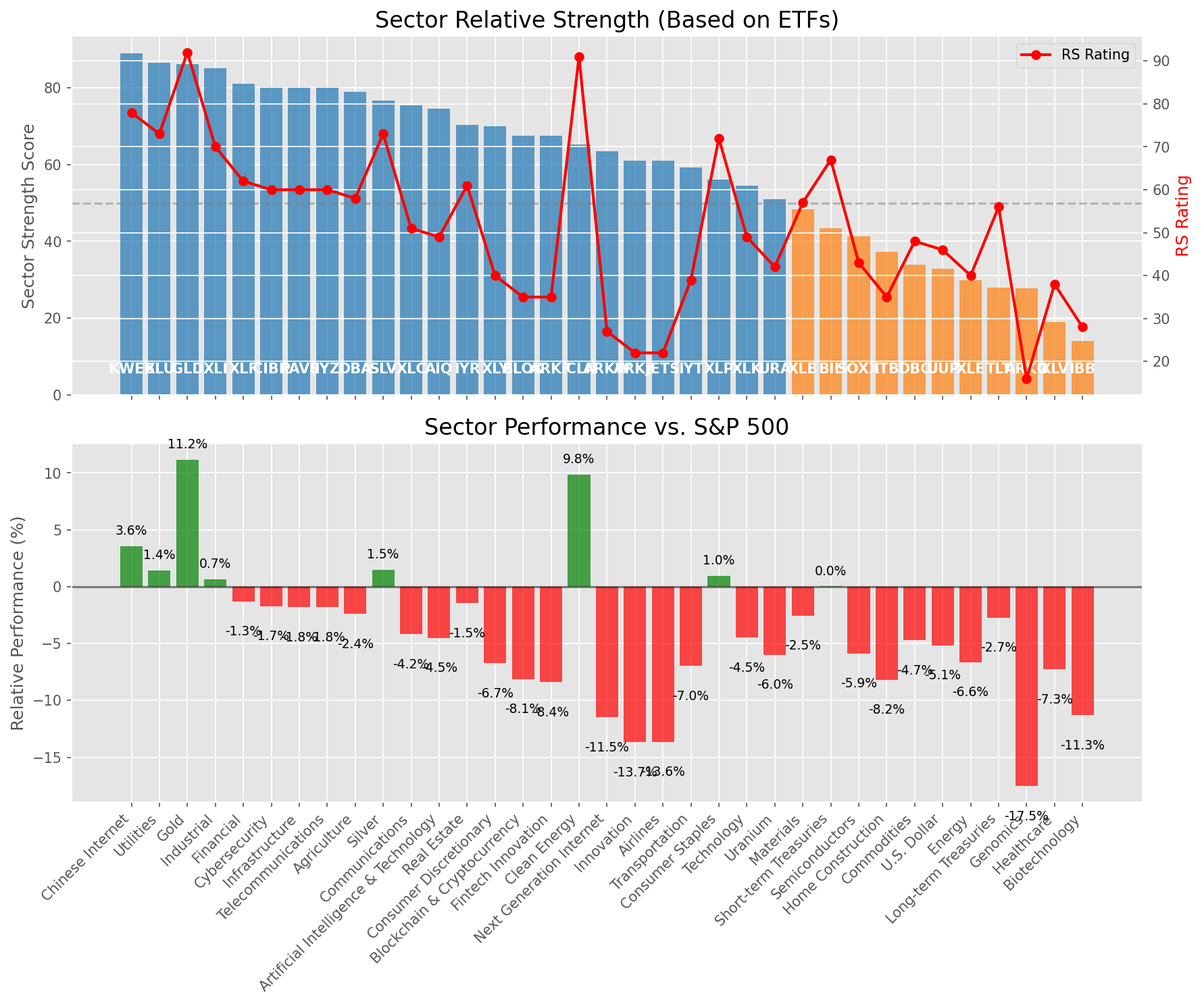
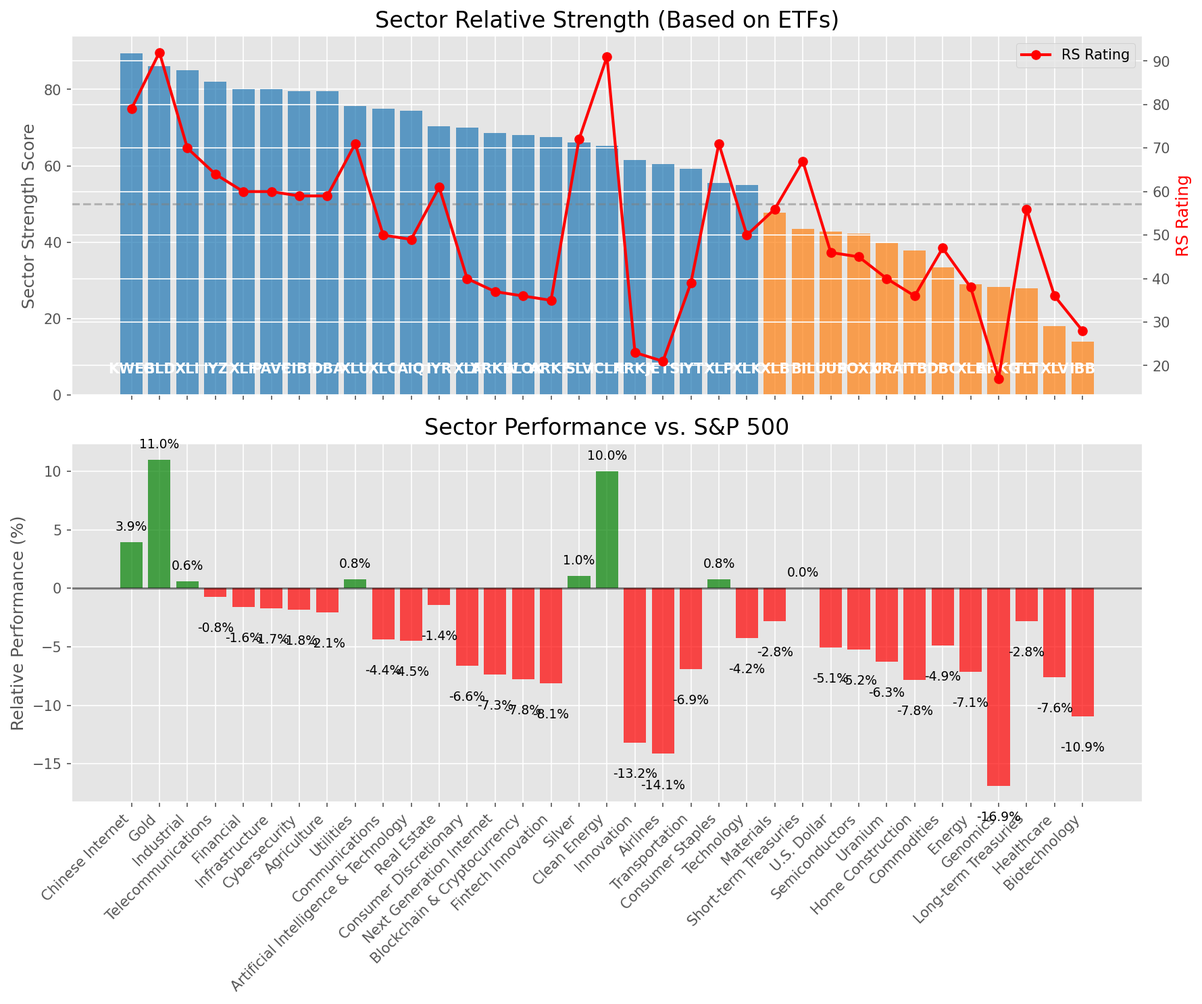
Add market report for 2025-05-12

diff --git a/oneil_relative_strength_report_2025-05-12.md b/oneil_relative_strength_report_2025-05-12.md
@@ -13,7 +13,7 @@
 | **Historical Mean** | 9.41 |
 | **Standard Deviation** | 0.51 |
 | **Z-Score (StdDev from Mean)** | -0.27 |
-| **Total Market Cap** | $285.36 trillion |
+| **Total Market Cap** | $285.49 trillion |
 | **GDP** | $29.98 trillion |
 
 ## **Market Insights**
@@ -49,41 +49,41 @@ Based on William O'Neil's Relative Strength Methodology
 
 | ETF | Strength | RS Rating | Performance | Above Key MAs | Trend | Sector |
 |-----|----------|-----------|-------------|--------------|-------|--------|
-| [KWEB](https://www.tradingview.com/chart/?symbol=KWEB) | 89.0 | 78.0 | 3.59% | 10d ✓, 50d ✓, 200d ✓ | ↗ | Chinese Internet |
-| [XLU](https://www.tradingview.com/chart/?symbol=XLU) | 86.5 | 73.0 | 1.41% | 10d ✓, 50d ✓, 200d ✓ | ↗ | Utilities |
-| [GLD](https://www.tradingview.com/chart/?symbol=GLD) | 86.1 | 92.0 | 11.17% | 10d ✗, 50d ✓, 200d ✓ | ↗ | Gold |
-| [XLI](https://www.tradingview.com/chart/?symbol=XLI) | 85.0 | 70.0 | 0.66% | 10d ✓, 50d ✓, 200d ✓ | ↗ | Industrial |
-| [XLF](https://www.tradingview.com/chart/?symbol=XLF) | 81.0 | 62.0 | -1.29% | 10d ✓, 50d ✓, 200d ✓ | ↗ | Financial |
-| [CIBR](https://www.tradingview.com/chart/?symbol=CIBR) | 80.0 | 60.0 | -1.70% | 10d ✓, 50d ✓, 200d ✓ | ↗ | Cybersecurity |
-| [PAVE](https://www.tradingview.com/chart/?symbol=PAVE) | 80.0 | 60.0 | -1.78% | 10d ✓, 50d ✓, 200d ✓ | ↗ | Infrastructure |
-| [IYZ](https://www.tradingview.com/chart/?symbol=IYZ) | 80.0 | 60.0 | -1.79% | 10d ✓, 50d ✓, 200d ✓ | ↗ | Telecommunications |
-| [DBA](https://www.tradingview.com/chart/?symbol=DBA) | 79.0 | 58.0 | -2.38% | 10d ✓, 50d ✓, 200d ✓ | ↗ | Agriculture |
-| [SLV](https://www.tradingview.com/chart/?symbol=SLV) | 76.6 | 73.0 | 1.47% | 10d ✓, 50d ✗, 200d ✓ | ↗ | Silver |
-| [XLC](https://www.tradingview.com/chart/?symbol=XLC) | 75.5 | 51.0 | -4.16% | 10d ✓, 50d ✓, 200d ✓ | ↗ | Communications |
-| [AIQ](https://www.tradingview.com/chart/?symbol=AIQ) | 74.5 | 49.0 | -4.51% | 10d ✓, 50d ✓, 200d ✓ | ↗ | Artificial Intelligence & Technology |
-| [IYR](https://www.tradingview.com/chart/?symbol=IYR) | 70.3 | 61.0 | -1.46% | 10d ✓, 50d ✓, 200d ✗ | ↗ | Real Estate |
-| [XLY](https://www.tradingview.com/chart/?symbol=XLY) | 70.0 | 40.0 | -6.72% | 10d ✓, 50d ✓, 200d ✓ | ↗ | Consumer Discretionary |
-| [BLOK](https://www.tradingview.com/chart/?symbol=BLOK) | 67.5 | 35.0 | -8.11% | 10d ✓, 50d ✓, 200d ✓ | ↗ | Blockchain & Cryptocurrency |
-| [ARKF](https://www.tradingview.com/chart/?symbol=ARKF) | 67.5 | 35.0 | -8.40% | 10d ✓, 50d ✓, 200d ✓ | ↗ | Fintech Innovation |
-| [ICLN](https://www.tradingview.com/chart/?symbol=ICLN) | 65.3 | 91.0 | 9.84% | 10d ✓, 50d ✓, 200d ✗ | ↘ | Clean Energy |
-| [ARKW](https://www.tradingview.com/chart/?symbol=ARKW) | 63.5 | 27.0 | -11.46% | 10d ✓, 50d ✓, 200d ✓ | ↗ | Next Generation Internet |
-| [ARKK](https://www.tradingview.com/chart/?symbol=ARKK) | 61.0 | 22.0 | -13.66% | 10d ✓, 50d ✓, 200d ✓ | ↗ | Innovation |
-| [JETS](https://www.tradingview.com/chart/?symbol=JETS) | 61.0 | 22.0 | -13.64% | 10d ✓, 50d ✓, 200d ✓ | ↗ | Airlines |
-| [IYT](https://www.tradingview.com/chart/?symbol=IYT) | 59.3 | 39.0 | -6.97% | 10d ✓, 50d ✓, 200d ✗ | ↗ | Transportation |
-| [XLP](https://www.tradingview.com/chart/?symbol=XLP) | 56.0 | 72.0 | 0.97% | 10d ✗, 50d ✗, 200d ✗ | ↗ | Consumer Staples |
-| [XLK](https://www.tradingview.com/chart/?symbol=XLK) | 54.5 | 49.0 | -4.47% | 10d ✓, 50d ✓, 200d ✓ | ↘ | Technology |
-| [URA](https://www.tradingview.com/chart/?symbol=URA) | 51.0 | 42.0 | -5.98% | 10d ✓, 50d ✓, 200d ✓ | ↘ | Uranium |
-| [XLB](https://www.tradingview.com/chart/?symbol=XLB) | 48.3 | 57.0 | -2.54% | 10d ✓, 50d ✓, 200d ✗ | ↘ | Materials |
+| [KWEB](https://www.tradingview.com/chart/?symbol=KWEB) | 89.5 | 79.0 | 3.93% | 10d ✓, 50d ✓, 200d ✓ | ↗ | Chinese Internet |
+| [GLD](https://www.tradingview.com/chart/?symbol=GLD) | 86.1 | 92.0 | 10.99% | 10d ✗, 50d ✓, 200d ✓ | ↗ | Gold |
+| [XLI](https://www.tradingview.com/chart/?symbol=XLI) | 85.0 | 70.0 | 0.58% | 10d ✓, 50d ✓, 200d ✓ | ↗ | Industrial |
+| [IYZ](https://www.tradingview.com/chart/?symbol=IYZ) | 82.0 | 64.0 | -0.75% | 10d ✓, 50d ✓, 200d ✓ | ↗ | Telecommunications |
+| [XLF](https://www.tradingview.com/chart/?symbol=XLF) | 80.0 | 60.0 | -1.58% | 10d ✓, 50d ✓, 200d ✓ | ↗ | Financial |
+| [PAVE](https://www.tradingview.com/chart/?symbol=PAVE) | 80.0 | 60.0 | -1.73% | 10d ✓, 50d ✓, 200d ✓ | ↗ | Infrastructure |
+| [CIBR](https://www.tradingview.com/chart/?symbol=CIBR) | 79.5 | 59.0 | -1.81% | 10d ✓, 50d ✓, 200d ✓ | ↗ | Cybersecurity |
+| [DBA](https://www.tradingview.com/chart/?symbol=DBA) | 79.5 | 59.0 | -2.07% | 10d ✓, 50d ✓, 200d ✓ | ↗ | Agriculture |
+| [XLU](https://www.tradingview.com/chart/?symbol=XLU) | 75.6 | 71.0 | 0.78% | 10d ✗, 50d ✓, 200d ✓ | ↗ | Utilities |
+| [XLC](https://www.tradingview.com/chart/?symbol=XLC) | 75.0 | 50.0 | -4.35% | 10d ✓, 50d ✓, 200d ✓ | ↗ | Communications |
+| [AIQ](https://www.tradingview.com/chart/?symbol=AIQ) | 74.5 | 49.0 | -4.45% | 10d ✓, 50d ✓, 200d ✓ | ↗ | Artificial Intelligence & Technology |
+| [IYR](https://www.tradingview.com/chart/?symbol=IYR) | 70.3 | 61.0 | -1.43% | 10d ✓, 50d ✓, 200d ✗ | ↗ | Real Estate |
+| [XLY](https://www.tradingview.com/chart/?symbol=XLY) | 70.0 | 40.0 | -6.60% | 10d ✓, 50d ✓, 200d ✓ | ↗ | Consumer Discretionary |
+| [ARKW](https://www.tradingview.com/chart/?symbol=ARKW) | 68.5 | 37.0 | -7.34% | 10d ✓, 50d ✓, 200d ✓ | ↗ | Next Generation Internet |
+| [BLOK](https://www.tradingview.com/chart/?symbol=BLOK) | 68.0 | 36.0 | -7.76% | 10d ✓, 50d ✓, 200d ✓ | ↗ | Blockchain & Cryptocurrency |
+| [ARKF](https://www.tradingview.com/chart/?symbol=ARKF) | 67.5 | 35.0 | -8.12% | 10d ✓, 50d ✓, 200d ✓ | ↗ | Fintech Innovation |
+| [SLV](https://www.tradingview.com/chart/?symbol=SLV) | 66.2 | 72.0 | 1.04% | 10d ✗, 50d ✗, 200d ✓ | ↗ | Silver |
+| [ICLN](https://www.tradingview.com/chart/?symbol=ICLN) | 65.3 | 91.0 | 9.97% | 10d ✓, 50d ✓, 200d ✗ | ↘ | Clean Energy |
+| [ARKK](https://www.tradingview.com/chart/?symbol=ARKK) | 61.5 | 23.0 | -13.21% | 10d ✓, 50d ✓, 200d ✓ | ↗ | Innovation |
+| [JETS](https://www.tradingview.com/chart/?symbol=JETS) | 60.5 | 21.0 | -14.14% | 10d ✓, 50d ✓, 200d ✓ | ↗ | Airlines |
+| [IYT](https://www.tradingview.com/chart/?symbol=IYT) | 59.3 | 39.0 | -6.89% | 10d ✓, 50d ✓, 200d ✗ | ↗ | Transportation |
+| [XLP](https://www.tradingview.com/chart/?symbol=XLP) | 55.5 | 71.0 | 0.78% | 10d ✗, 50d ✗, 200d ✗ | ↗ | Consumer Staples |
+| [XLK](https://www.tradingview.com/chart/?symbol=XLK) | 55.0 | 50.0 | -4.24% | 10d ✓, 50d ✓, 200d ✓ | ↘ | Technology |
+| [XLB](https://www.tradingview.com/chart/?symbol=XLB) | 47.8 | 56.0 | -2.79% | 10d ✓, 50d ✓, 200d ✗ | ↘ | Materials |
 | [BIL](https://www.tradingview.com/chart/?symbol=BIL) | 43.4 | 67.0 | 0.03% | 10d ✓, 50d ✗, 200d ✗ | ↘ | Short-term Treasuries |
-| [SOXX](https://www.tradingview.com/chart/?symbol=SOXX) | 41.3 | 43.0 | -5.88% | 10d ✓, 50d ✓, 200d ✗ | ↘ | Semiconductors |
-| [ITB](https://www.tradingview.com/chart/?symbol=ITB) | 37.3 | 35.0 | -8.17% | 10d ✓, 50d ✓, 200d ✗ | ↘ | Home Construction |
-| [DBC](https://www.tradingview.com/chart/?symbol=DBC) | 33.9 | 48.0 | -4.71% | 10d ✓, 50d ✗, 200d ✗ | ↘ | Commodities |
-| [UUP](https://www.tradingview.com/chart/?symbol=UUP) | 32.9 | 46.0 | -5.15% | 10d ✓, 50d ✗, 200d ✗ | ↘ | U.S. Dollar |
-| [XLE](https://www.tradingview.com/chart/?symbol=XLE) | 29.9 | 40.0 | -6.63% | 10d ✓, 50d ✗, 200d ✗ | ↘ | Energy |
-| [TLT](https://www.tradingview.com/chart/?symbol=TLT) | 28.0 | 56.0 | -2.72% | 10d ✗, 50d ✗, 200d ✗ | ↘ | Long-term Treasuries |
-| [ARKG](https://www.tradingview.com/chart/?symbol=ARKG) | 27.8 | 16.0 | -17.52% | 10d ✓, 50d ✓, 200d ✗ | ↘ | Genomics |
-| [XLV](https://www.tradingview.com/chart/?symbol=XLV) | 19.0 | 38.0 | -7.27% | 10d ✗, 50d ✗, 200d ✗ | ↘ | Healthcare |
-| [IBB](https://www.tradingview.com/chart/?symbol=IBB) | 14.0 | 28.0 | -11.29% | 10d ✗, 50d ✗, 200d ✗ | ↘ | Biotechnology |
+| [UUP](https://www.tradingview.com/chart/?symbol=UUP) | 42.8 | 46.0 | -5.06% | 10d ✓, 50d ✓, 200d ✗ | ↘ | U.S. Dollar |
+| [SOXX](https://www.tradingview.com/chart/?symbol=SOXX) | 42.3 | 45.0 | -5.23% | 10d ✓, 50d ✓, 200d ✗ | ↘ | Semiconductors |
+| [URA](https://www.tradingview.com/chart/?symbol=URA) | 39.8 | 40.0 | -6.29% | 10d ✓, 50d ✓, 200d ✗ | ↘ | Uranium |
+| [ITB](https://www.tradingview.com/chart/?symbol=ITB) | 37.8 | 36.0 | -7.82% | 10d ✓, 50d ✓, 200d ✗ | ↘ | Home Construction |
+| [DBC](https://www.tradingview.com/chart/?symbol=DBC) | 33.4 | 47.0 | -4.89% | 10d ✓, 50d ✗, 200d ✗ | ↘ | Commodities |
+| [XLE](https://www.tradingview.com/chart/?symbol=XLE) | 28.9 | 38.0 | -7.13% | 10d ✓, 50d ✗, 200d ✗ | ↘ | Energy |
+| [ARKG](https://www.tradingview.com/chart/?symbol=ARKG) | 28.3 | 17.0 | -16.88% | 10d ✓, 50d ✓, 200d ✗ | ↘ | Genomics |
+| [TLT](https://www.tradingview.com/chart/?symbol=TLT) | 28.0 | 56.0 | -2.83% | 10d ✗, 50d ✗, 200d ✗ | ↘ | Long-term Treasuries |
+| [XLV](https://www.tradingview.com/chart/?symbol=XLV) | 18.0 | 36.0 | -7.58% | 10d ✗, 50d ✗, 200d ✗ | ↘ | Healthcare |
+| [IBB](https://www.tradingview.com/chart/?symbol=IBB) | 14.0 | 28.0 | -10.91% | 10d ✗, 50d ✗, 200d ✗ | ↘ | Biotechnology |
 
 ### **Sector ETF Performance Interpretation**
 
@@ -98,9 +98,9 @@ This table shows the relative strength metrics for different market sectors base
 
 ### **Current Sector Leadership**
 
-The current market leadership is coming from the following sectors: **Chinese Internet, Utilities, Gold**.
+The current market leadership is coming from the following sectors: **Chinese Internet, Gold, Industrial**.
 
-The **Chinese Internet** sector (represented by **KWEB**) is showing particularly strong relative strength with an RS rating of 78.0 and performance of 3.59% vs. the S&P 500. This sector is trading above its 10-day, 50-day, 200-day moving average(s). Investors should consider focusing on high RS stocks within these leading sectors for potential outperformance.
+The **Chinese Internet** sector (represented by **KWEB**) is showing particularly strong relative strength with an RS rating of 79.0 and performance of 3.93% vs. the S&P 500. This sector is trading above its 10-day, 50-day, 200-day moving average(s). Investors should consider focusing on high RS stocks within these leading sectors for potential outperformance.
 
 ---
 
@@ -110,148 +110,146 @@ The following 50 stocks show exceptional relative strength:
 
 | RS Rating | Buy Score | Current Price | Chart | Name | Ticker |
 |-----------|-----------|---------------|-------|------|--------|
-| 100 | 100 | $19.27 | [Chart](https://www.tradingview.com/chart/?symbol=SPNT) | SiriusPoint Ltd. | SPNT |
-| 100 | 100 | $153.00 | [Chart](https://www.tradingview.com/chart/?symbol=ROOT) | Root, Inc. Class A Common Stock | ROOT |
-| 100 | 100 | $27.41 | [Chart](https://www.tradingview.com/chart/?symbol=DB) | Deutsche Bank Aktiengesellschaft | DB |
-| 100 | 100 | $88.08 | [Chart](https://www.tradingview.com/chart/?symbol=SEZL) | Sezzle Inc. Common Stock | SEZL |
-| 100 | 100 | $174.50 | [Chart](https://www.tradingview.com/chart/?symbol=DAVE) | Dave Inc. Class A Common Stock | DAVE |
-| 100 | 100 | $153.68 | [Chart](https://www.tradingview.com/chart/?symbol=PLMR) | Palomar Holdings, Inc. Common stock | PLMR |
-| 99 | 100 | $47.30 | [Chart](https://www.tradingview.com/chart/?symbol=MRX) | Marex Group plc Ordinary Shares | MRX |
-| 99 | 100 | $70.01 | [Chart](https://www.tradingview.com/chart/?symbol=ULS) | UL Solutions Inc. | ULS |
-| 99 | 100 | $23.63 | [Chart](https://www.tradingview.com/chart/?symbol=GRND) | Grindr Inc. | GRND |
-| 98 | 100 | $408.57 | [Chart](https://www.tradingview.com/chart/?symbol=MSTR) | MicroStrategy Inc | MSTR |
-| 98 | 100 | $132.59 | [Chart](https://www.tradingview.com/chart/?symbol=ATGE) | Adtalem Global Education Inc. Common Shares | ATGE |
+| 100 | 100 | $27.38 | [Chart](https://www.tradingview.com/chart/?symbol=DB) | Deutsche Bank Aktiengesellschaft | DB |
+| 100 | 100 | $19.08 | [Chart](https://www.tradingview.com/chart/?symbol=SPNT) | SiriusPoint Ltd. | SPNT |
+| 100 | 100 | $86.76 | [Chart](https://www.tradingview.com/chart/?symbol=SEZL) | Sezzle Inc. Common Stock | SEZL |
+| 100 | 100 | $175.11 | [Chart](https://www.tradingview.com/chart/?symbol=DAVE) | Dave Inc. Class A Common Stock | DAVE |
+| 100 | 100 | $23.60 | [Chart](https://www.tradingview.com/chart/?symbol=GRND) | Grindr Inc. | GRND |
+| 99 | 100 | $148.50 | [Chart](https://www.tradingview.com/chart/?symbol=ROOT) | Root, Inc. Class A Common Stock | ROOT |
+| 99 | 100 | $69.55 | [Chart](https://www.tradingview.com/chart/?symbol=ULS) | UL Solutions Inc. | ULS |
+| 99 | 100 | $46.97 | [Chart](https://www.tradingview.com/chart/?symbol=MRX) | Marex Group plc Ordinary Shares | MRX |
+| 98 | 100 | $156.92 | [Chart](https://www.tradingview.com/chart/?symbol=HWM) | Howmet Aerospace Inc. | HWM |
 | 98 | 100 | $129.14 | [Chart](https://www.tradingview.com/chart/?symbol=VSEC) | VSE Corp | VSEC |
-| 98 | 100 | $34.69 | [Chart](https://www.tradingview.com/chart/?symbol=AHR) | American Healthcare REIT, Inc. | AHR |
-| 97 | 100 | $28.39 | [Chart](https://www.tradingview.com/chart/?symbol=FMS) | Fresenius Medical Care AG | FMS |
-| 97 | 100 | $116.66 | [Chart](https://www.tradingview.com/chart/?symbol=EHC) | Encompass Health Corporation Common Stock | EHC |
-| 97 | 100 | $148.07 | [Chart](https://www.tradingview.com/chart/?symbol=CAH) | Cardinal Health, Inc. | CAH |
-| 97 | 100 | $38.28 | [Chart](https://www.tradingview.com/chart/?symbol=PAY) | Paymentus Holdings, Inc. | PAY |
-| 97 | 100 | $30.70 | [Chart](https://www.tradingview.com/chart/?symbol=EUFN) | iShares MSCI Europe Financials ETF | EUFN |
-| 96 | 100 | $40.32 | [Chart](https://www.tradingview.com/chart/?symbol=EWG) | iShares MSCI Germany ETF | EWG |
-| 96 | 100 | $298.25 | [Chart](https://www.tradingview.com/chart/?symbol=PEN) | Penumbra, Inc. | PEN |
-| 96 | 100 | $33.47 | [Chart](https://www.tradingview.com/chart/?symbol=UTI) | Universal Technical Institute, Inc. | UTI |
-| 95 | 100 | $214.94 | [Chart](https://www.tradingview.com/chart/?symbol=CRS) | Carpenter Technology Corp | CRS |
-| 95 | 100 | $32.91 | [Chart](https://www.tradingview.com/chart/?symbol=SLM) | SLM Corporation | SLM |
+| 98 | 100 | $408.12 | [Chart](https://www.tradingview.com/chart/?symbol=MSTR) | MicroStrategy Inc | MSTR |
+| 98 | 100 | $132.44 | [Chart](https://www.tradingview.com/chart/?symbol=ATGE) | Adtalem Global Education Inc. Common Shares | ATGE |
+| 98 | 100 | $34.60 | [Chart](https://www.tradingview.com/chart/?symbol=AHR) | American Healthcare REIT, Inc. | AHR |
+| 97 | 100 | $28.13 | [Chart](https://www.tradingview.com/chart/?symbol=FMS) | Fresenius Medical Care AG | FMS |
+| 97 | 100 | $147.91 | [Chart](https://www.tradingview.com/chart/?symbol=CAH) | Cardinal Health, Inc. | CAH |
+| 97 | 100 | $37.70 | [Chart](https://www.tradingview.com/chart/?symbol=PAY) | Paymentus Holdings, Inc. | PAY |
+| 97 | 100 | $30.66 | [Chart](https://www.tradingview.com/chart/?symbol=EUFN) | iShares MSCI Europe Financials ETF | EUFN |
+| 96 | 100 | $33.41 | [Chart](https://www.tradingview.com/chart/?symbol=UTI) | Universal Technical Institute, Inc. | UTI |
+| 96 | 100 | $298.12 | [Chart](https://www.tradingview.com/chart/?symbol=PEN) | Penumbra, Inc. | PEN |
+| 96 | 100 | $40.26 | [Chart](https://www.tradingview.com/chart/?symbol=EWG) | iShares MSCI Germany ETF | EWG |
+| 95 | 100 | $32.88 | [Chart](https://www.tradingview.com/chart/?symbol=SLM) | SLM Corporation | SLM |
+| 95 | 100 | $216.00 | [Chart](https://www.tradingview.com/chart/?symbol=CRS) | Carpenter Technology Corp | CRS |
+| 95 | 100 | $73.75 | [Chart](https://www.tradingview.com/chart/?symbol=RBLX) | Roblox Corporation | RBLX |
 | 95 | 100 | $61.81 | [Chart](https://www.tradingview.com/chart/?symbol=CHEF) | The Chef's Warehouse Inc | CHEF |
-| 94 | 100 | $141.30 | [Chart](https://www.tradingview.com/chart/?symbol=SE) | Sea Limited American Depositary Shares, each representing one Class A Ordinary Share | SE |
-| 94 | 100 | $47.35 | [Chart](https://www.tradingview.com/chart/?symbol=ERJ) | Embraer S.A. | ERJ |
-| 94 | 100 | $80.97 | [Chart](https://www.tradingview.com/chart/?symbol=NFG) | National Fuel Gas Co. | NFG |
-| 94 | 100 | $105.00 | [Chart](https://www.tradingview.com/chart/?symbol=RBA) | RB Global, Inc. | RBA |
-| 94 | 100 | $73.29 | [Chart](https://www.tradingview.com/chart/?symbol=RBLX) | Roblox Corporation | RBLX |
-| 93 | 100 | $53.21 | [Chart](https://www.tradingview.com/chart/?symbol=EPR) | EPR Properties | EPR |
-| 93 | 100 | $317.63 | [Chart](https://www.tradingview.com/chart/?symbol=PODD) | Insulet Corporation | PODD |
-| 93 | 100 | $16.71 | [Chart](https://www.tradingview.com/chart/?symbol=BCS) | Barclays PLC | BCS |
+| 95 | 100 | $47.53 | [Chart](https://www.tradingview.com/chart/?symbol=ERJ) | Embraer S.A. | ERJ |
+| 95 | 100 | $142.82 | [Chart](https://www.tradingview.com/chart/?symbol=SE) | Sea Limited American Depositary Shares, each representing one Class A Ordinary Share | SE |
+| 94 | 100 | $104.78 | [Chart](https://www.tradingview.com/chart/?symbol=RBA) | RB Global, Inc. | RBA |
+| 93 | 100 | $119.30 | [Chart](https://www.tradingview.com/chart/?symbol=COOP) | Mr. Cooper Group Inc. Common Stock | COOP |
+| 93 | 100 | $16.66 | [Chart](https://www.tradingview.com/chart/?symbol=BCS) | Barclays PLC | BCS |
+| 93 | 100 | $53.17 | [Chart](https://www.tradingview.com/chart/?symbol=EPR) | EPR Properties | EPR |
 | 92 | 100 | $40.76 | [Chart](https://www.tradingview.com/chart/?symbol=AB) | AllianceBernstein Holding, L.P. | AB |
-| 90 | 100 | $67.80 | [Chart](https://www.tradingview.com/chart/?symbol=CTVA) | Corteva, Inc. Common Stock | CTVA |
-| 89 | 100 | $58.58 | [Chart](https://www.tradingview.com/chart/?symbol=HSBC) | HSBC Holdings PLC | HSBC |
-| 89 | 100 | $101.22 | [Chart](https://www.tradingview.com/chart/?symbol=AXS) | Axis Capital Holders Limited | AXS |
+| 92 | 100 | $316.20 | [Chart](https://www.tradingview.com/chart/?symbol=PODD) | Insulet Corporation | PODD |
+| 92 | 100 | $86.46 | [Chart](https://www.tradingview.com/chart/?symbol=TGLS) | Tecnoglass Inc. | TGLS |
+| 89 | 100 | $94.33 | [Chart](https://www.tradingview.com/chart/?symbol=HEES) | H&E Equipment Services, Inc. | HEES |
 | 89 | 100 | $25.09 | [Chart](https://www.tradingview.com/chart/?symbol=EWS) | iShares MSCI Singapore ETF | EWS |
+| 89 | 100 | $58.33 | [Chart](https://www.tradingview.com/chart/?symbol=HSBC) | HSBC Holdings PLC | HSBC |
+| 89 | 100 | $67.61 | [Chart](https://www.tradingview.com/chart/?symbol=CTVA) | Corteva, Inc. Common Stock | CTVA |
 | 88 | 100 | $196.10 | [Chart](https://www.tradingview.com/chart/?symbol=LOPE) | Grand Canyon Education, Inc | LOPE |
-| 90 | 99 | $85.24 | [Chart](https://www.tradingview.com/chart/?symbol=TGLS) | Tecnoglass Inc. | TGLS |
-| 88 | 98 | $30.74 | [Chart](https://www.tradingview.com/chart/?symbol=PRDO) | Perdoceo Education Corporation | PRDO |
-| 88 | 98 | $13.26 | [Chart](https://www.tradingview.com/chart/?symbol=CNH) | CNH INDUSTRIAL N.V. | CNH |
-| 87 | 98 | $93.41 | [Chart](https://www.tradingview.com/chart/?symbol=HEES) | H&E Equipment Services, Inc. | HEES |
-| 84 | 97 | $45.84 | [Chart](https://www.tradingview.com/chart/?symbol=QFIN) | Qifu Technology, Inc. American Depositary Shares | QFIN |
+| 88 | 98 | $13.29 | [Chart](https://www.tradingview.com/chart/?symbol=CNH) | CNH INDUSTRIAL N.V. | CNH |
+| 87 | 97 | $30.60 | [Chart](https://www.tradingview.com/chart/?symbol=PRDO) | Perdoceo Education Corporation | PRDO |
+| 84 | 97 | $45.93 | [Chart](https://www.tradingview.com/chart/?symbol=QFIN) | Qifu Technology, Inc. American Depositary Shares | QFIN |
+| 84 | 97 | $219.22 | [Chart](https://www.tradingview.com/chart/?symbol=IDCC) | InterDigital, Inc. | IDCC |
 | 85 | 96 | $205.37 | [Chart](https://www.tradingview.com/chart/?symbol=BAP) | Credicorp LTD | BAP |
-| 84 | 95 | $29.61 | [Chart](https://www.tradingview.com/chart/?symbol=ATAT) | Atour Lifestyle Holdings Limited American Depositary Shares | ATAT |
-| 81 | 93 | $204.37 | [Chart](https://www.tradingview.com/chart/?symbol=DRI) | Darden Restaurants, Inc. | DRI |
-| 83 | 92 | $58.39 | [Chart](https://www.tradingview.com/chart/?symbol=IBIT) | iShares Bitcoin Trust ETF | IBIT |
-| 81 | 92 | $164.76 | [Chart](https://www.tradingview.com/chart/?symbol=ITA) | iShares U.S. Aerospace & Defense ETF | ITA |
-| 80 | 90 | $12.94 | [Chart](https://www.tradingview.com/chart/?symbol=MUFG) | Mitsubishi UFJ Financial Group, Inc. | MUFG |
-| 80 | 90 | $16.99 | [Chart](https://www.tradingview.com/chart/?symbol=MIR) | Mirion Technologies, Inc. | MIR |
+| 85 | 96 | $29.64 | [Chart](https://www.tradingview.com/chart/?symbol=ATAT) | Atour Lifestyle Holdings Limited American Depositary Shares | ATAT |
+| 81 | 93 | $204.28 | [Chart](https://www.tradingview.com/chart/?symbol=DRI) | Darden Restaurants, Inc. | DRI |
+| 80 | 93 | $66.25 | [Chart](https://www.tradingview.com/chart/?symbol=CSGS) | CSG Systems International | CSGS |
+| 83 | 92 | $29.09 | [Chart](https://www.tradingview.com/chart/?symbol=HODL) | VanEck Bitcoin ETF | HODL |
+| 83 | 92 | $58.45 | [Chart](https://www.tradingview.com/chart/?symbol=IBIT) | iShares Bitcoin Trust ETF | IBIT |
+| 81 | 92 | $164.48 | [Chart](https://www.tradingview.com/chart/?symbol=ITA) | iShares U.S. Aerospace & Defense ETF | ITA |
+| 80 | 90 | $17.00 | [Chart](https://www.tradingview.com/chart/?symbol=MIR) | Mirion Technologies, Inc. | MIR |
 
 ---
 
 
 ## **Sell Recommendations**
 
-The following 82 stocks show deteriorating relative strength:
+The following 80 stocks show deteriorating relative strength:
 
 | RS Rating | Sell Score | Current Price | Chart | Name | Ticker |
 |-----------|------------|---------------|-------|------|--------|
-| 1 | 100 | $10.00 | [Chart](https://www.tradingview.com/chart/?symbol=NRIX) | Nurix Therapeutics, Inc. Common stock | NRIX |
-| 1 | 100 | $20.39 | [Chart](https://www.tradingview.com/chart/?symbol=BHVN) | Biohaven Ltd. | BHVN |
-| 2 | 100 | $13.96 | [Chart](https://www.tradingview.com/chart/?symbol=DQ) | Daqo New Energy Corp. American Depositary Shares (each representing 5 Ordinary Shares) | DQ |
-| 3 | 100 | $10.29 | [Chart](https://www.tradingview.com/chart/?symbol=LSPD) | Lightspeed Commerce Inc. | LSPD |
-| 4 | 100 | $13.07 | [Chart](https://www.tradingview.com/chart/?symbol=MNRO) | Monro, Inc. Common Stock | MNRO |
-| 5 | 100 | $13.19 | [Chart](https://www.tradingview.com/chart/?symbol=FL) | Foot Locker, Inc. | FL |
-| 5 | 100 | $11.72 | [Chart](https://www.tradingview.com/chart/?symbol=ARCT) | Arcturus Therapeutics Holdings Inc. Common Stock | ARCT |
+| 1 | 100 | $10.06 | [Chart](https://www.tradingview.com/chart/?symbol=NRIX) | Nurix Therapeutics, Inc. Common stock | NRIX |
+| 1 | 100 | $20.04 | [Chart](https://www.tradingview.com/chart/?symbol=BHVN) | Biohaven Ltd. | BHVN |
+| 2 | 100 | $14.01 | [Chart](https://www.tradingview.com/chart/?symbol=DQ) | Daqo New Energy Corp. American Depositary Shares (each representing 5 Ordinary Shares) | DQ |
+| 3 | 100 | $10.35 | [Chart](https://www.tradingview.com/chart/?symbol=LSPD) | Lightspeed Commerce Inc. | LSPD |
+| 4 | 100 | $11.38 | [Chart](https://www.tradingview.com/chart/?symbol=ARCT) | Arcturus Therapeutics Holdings Inc. Common Stock | ARCT |
+| 4 | 100 | $12.99 | [Chart](https://www.tradingview.com/chart/?symbol=MNRO) | Monro, Inc. Common Stock | MNRO |
+| 5 | 100 | $13.20 | [Chart](https://www.tradingview.com/chart/?symbol=FL) | Foot Locker, Inc. | FL |
+| 6 | 100 | $28.20 | [Chart](https://www.tradingview.com/chart/?symbol=JACK) | Jack in the Box Inc. | JACK |
 | 6 | 100 | $28.01 | [Chart](https://www.tradingview.com/chart/?symbol=SRDX) | Surmodics, Inc. Common Stock | SRDX |
-| 7 | 100 | $15.87 | [Chart](https://www.tradingview.com/chart/?symbol=PENN) | PENN Entertainment, Inc. Common Stock | PENN |
-| 7 | 100 | $32.96 | [Chart](https://www.tradingview.com/chart/?symbol=AAP) | ADVANCE AUTO PARTS INC | AAP |
-| 7 | 100 | $11.65 | [Chart](https://www.tradingview.com/chart/?symbol=JAMF) | Jamf Holding Corp. Common Stock | JAMF |
-| 8 | 100 | $14.49 | [Chart](https://www.tradingview.com/chart/?symbol=IMVT) | Immunovant, Inc. Common Stock | IMVT |
-| 9 | 100 | $130.02 | [Chart](https://www.tradingview.com/chart/?symbol=TFX) | Teleflex Incorporated | TFX |
-| 9 | 100 | $32.10 | [Chart](https://www.tradingview.com/chart/?symbol=CYTK) | Cytokinetics Inc. | CYTK |
+| 7 | 100 | $15.95 | [Chart](https://www.tradingview.com/chart/?symbol=PENN) | PENN Entertainment, Inc. Common Stock | PENN |
+| 7 | 100 | $14.45 | [Chart](https://www.tradingview.com/chart/?symbol=IMVT) | Immunovant, Inc. Common Stock | IMVT |
+| 7 | 100 | $33.22 | [Chart](https://www.tradingview.com/chart/?symbol=AAP) | ADVANCE AUTO PARTS INC | AAP |
+| 7 | 100 | $11.62 | [Chart](https://www.tradingview.com/chart/?symbol=JAMF) | Jamf Holding Corp. Common Stock | JAMF |
+| 8 | 100 | $129.48 | [Chart](https://www.tradingview.com/chart/?symbol=TFX) | Teleflex Incorporated | TFX |
+| 9 | 100 | $32.23 | [Chart](https://www.tradingview.com/chart/?symbol=CYTK) | Cytokinetics Inc. | CYTK |
 | 11 | 100 | $58.62 | [Chart](https://www.tradingview.com/chart/?symbol=AMWD) | American Woodmark Corp | AMWD |
-| 11 | 100 | $33.35 | [Chart](https://www.tradingview.com/chart/?symbol=SMCI) | Super Micro Computer, Inc. Common Stock | SMCI |
-| 12 | 100 | $47.06 | [Chart](https://www.tradingview.com/chart/?symbol=RHI) | Robert Half Inc. | RHI |
-| 7 | 99 | $12.72 | [Chart](https://www.tradingview.com/chart/?symbol=LBRT) | Liberty Energy Inc. | LBRT |
+| 11 | 100 | $33.52 | [Chart](https://www.tradingview.com/chart/?symbol=SMCI) | Super Micro Computer, Inc. Common Stock | SMCI |
+| 12 | 100 | $47.27 | [Chart](https://www.tradingview.com/chart/?symbol=RHI) | Robert Half Inc. | RHI |
+| 9 | 99 | $12.05 | [Chart](https://www.tradingview.com/chart/?symbol=ZUMZ) | Zumiez Inc. | ZUMZ |
 | 10 | 99 | $11.34 | [Chart](https://www.tradingview.com/chart/?symbol=HPK) | HighPeak Energy, Inc. Common Stock | HPK |
 | 17 | 99 | $10.34 | [Chart](https://www.tradingview.com/chart/?symbol=CMRE) | Costamare Inc. | CMRE |
-| 2 | 98 | $287.20 | [Chart](https://www.tradingview.com/chart/?symbol=SAIA) | Saia, Inc. | SAIA |
-| 10 | 98 | $12.05 | [Chart](https://www.tradingview.com/chart/?symbol=ZUMZ) | Zumiez Inc. | ZUMZ |
-| 9 | 97 | $99.46 | [Chart](https://www.tradingview.com/chart/?symbol=TGT) | Target Corporation | TGT |
-| 10 | 97 | $29.35 | [Chart](https://www.tradingview.com/chart/?symbol=MBUU) | Malibu Boats, Inc. Class A | MBUU |
-| 19 | 97 | $28.80 | [Chart](https://www.tradingview.com/chart/?symbol=AGIO) | Agios Pharmaceuticals, Inc. | AGIO |
-| 21 | 97 | $11.03 | [Chart](https://www.tradingview.com/chart/?symbol=BWLP) | BW LPG Limited | BWLP |
-| 25 | 97 | $13.31 | [Chart](https://www.tradingview.com/chart/?symbol=MED) | Medifast, Inc. | MED |
+| 19 | 99 | $10.95 | [Chart](https://www.tradingview.com/chart/?symbol=BWLP) | BW LPG Limited | BWLP |
+| 2 | 98 | $292.13 | [Chart](https://www.tradingview.com/chart/?symbol=SAIA) | Saia, Inc. | SAIA |
+| 21 | 98 | $97.33 | [Chart](https://www.tradingview.com/chart/?symbol=CHRD) | Chord Energy Corporation Common Stock | CHRD |
+| 18 | 97 | $12.46 | [Chart](https://www.tradingview.com/chart/?symbol=AEYE) | AudioEye, Inc. Common Stock | AEYE |
+| 25 | 97 | $13.30 | [Chart](https://www.tradingview.com/chart/?symbol=MED) | Medifast, Inc. | MED |
+| 6 | 96 | $26.35 | [Chart](https://www.tradingview.com/chart/?symbol=TRN) | Trinity Industries, Inc. | TRN |
 | 6 | 96 | $10.31 | [Chart](https://www.tradingview.com/chart/?symbol=VREX) | Varex Imaging Corporation Common Stock | VREX |
 | 11 | 96 | $10.03 | [Chart](https://www.tradingview.com/chart/?symbol=MTAL) | MAC Copper Limited | MTAL |
-| 19 | 96 | $12.46 | [Chart](https://www.tradingview.com/chart/?symbol=AEYE) | AudioEye, Inc. Common Stock | AEYE |
-| 23 | 96 | $97.95 | [Chart](https://www.tradingview.com/chart/?symbol=CHRD) | Chord Energy Corporation Common Stock | CHRD |
-| 7 | 95 | $114.77 | [Chart](https://www.tradingview.com/chart/?symbol=BLDR) | Builders FirstSource, Inc. | BLDR |
-| 11 | 95 | $10.46 | [Chart](https://www.tradingview.com/chart/?symbol=PEB) | Pebblebrook Hotel Trust | PEB |
-| 13 | 95 | $17.76 | [Chart](https://www.tradingview.com/chart/?symbol=MLKN) | MillerKnoll, Inc. Common Stock | MLKN |
-| 11 | 93 | $54.67 | [Chart](https://www.tradingview.com/chart/?symbol=PRCT) | PROCEPT BioRobotics Corporation Common Stock | PRCT |
-| 12 | 92 | $31.47 | [Chart](https://www.tradingview.com/chart/?symbol=MBIN) | Merchants Bancorp Common Stock | MBIN |
-| 17 | 92 | $51.22 | [Chart](https://www.tradingview.com/chart/?symbol=ERX) | Direxion Daily Energy Bull 2X Shares | ERX |
-| 16 | 91 | $83.21 | [Chart](https://www.tradingview.com/chart/?symbol=WHR) | Whirlpool Corp. | WHR |
-| 22 | 91 | $16.41 | [Chart](https://www.tradingview.com/chart/?symbol=PD) | PagerDuty, Inc. | PD |
-| 12 | 90 | $12.12 | [Chart](https://www.tradingview.com/chart/?symbol=APLE) | Apple Hospitality REIT, Inc. | APLE |
+| 13 | 95 | $17.84 | [Chart](https://www.tradingview.com/chart/?symbol=MLKN) | MillerKnoll, Inc. Common Stock | MLKN |
+| 20 | 95 | $28.98 | [Chart](https://www.tradingview.com/chart/?symbol=AGIO) | Agios Pharmaceuticals, Inc. | AGIO |
+| 8 | 94 | $115.71 | [Chart](https://www.tradingview.com/chart/?symbol=BLDR) | Builders FirstSource, Inc. | BLDR |
+| 11 | 94 | $10.55 | [Chart](https://www.tradingview.com/chart/?symbol=PEB) | Pebblebrook Hotel Trust | PEB |
+| 15 | 94 | $50.64 | [Chart](https://www.tradingview.com/chart/?symbol=ERX) | Direxion Daily Energy Bull 2X Shares | ERX |
+| 11 | 93 | $54.69 | [Chart](https://www.tradingview.com/chart/?symbol=PRCT) | PROCEPT BioRobotics Corporation Common Stock | PRCT |
+| 11 | 93 | $31.47 | [Chart](https://www.tradingview.com/chart/?symbol=MBIN) | Merchants Bancorp Common Stock | MBIN |
+| 14 | 92 | $10.84 | [Chart](https://www.tradingview.com/chart/?symbol=PACS) | PACS Group, Inc. | PACS |
+| 11 | 91 | $12.11 | [Chart](https://www.tradingview.com/chart/?symbol=APLE) | Apple Hospitality REIT, Inc. | APLE |
+| 16 | 91 | $83.47 | [Chart](https://www.tradingview.com/chart/?symbol=WHR) | Whirlpool Corp. | WHR |
 | 13 | 90 | $16.08 | [Chart](https://www.tradingview.com/chart/?symbol=CHCT) | Community Healthcare Trust Incorporated Common Stock, $0.01 par value per share | CHCT |
-| 24 | 89 | $51.00 | [Chart](https://www.tradingview.com/chart/?symbol=LW) | Lamb Weston Holdings, Inc. | LW |
-| 13 | 88 | $14.91 | [Chart](https://www.tradingview.com/chart/?symbol=INMD) | InMode Ltd. Ordinary Shares | INMD |
-| 18 | 88 | $10.38 | [Chart](https://www.tradingview.com/chart/?symbol=AVO) | Mission Produce, Inc. Common Stock | AVO |
-| 18 | 88 | $12.41 | [Chart](https://www.tradingview.com/chart/?symbol=DBO) | Invesco DB Oil Fund | DBO |
-| 24 | 88 | $35.98 | [Chart](https://www.tradingview.com/chart/?symbol=SLB) | Schlumberger Limited | SLB |
-| 30 | 88 | $148.69 | [Chart](https://www.tradingview.com/chart/?symbol=MTN) | Vail Resorts, Inc. | MTN |
-| 34 | 88 | $28.40 | [Chart](https://www.tradingview.com/chart/?symbol=IMCR) | Immunocore Holdings plc American Depositary Shares | IMCR |
+| 22 | 90 | $16.53 | [Chart](https://www.tradingview.com/chart/?symbol=PD) | PagerDuty, Inc. | PD |
+| 22 | 90 | $35.70 | [Chart](https://www.tradingview.com/chart/?symbol=SLB) | Schlumberger Limited | SLB |
+| 23 | 90 | $50.83 | [Chart](https://www.tradingview.com/chart/?symbol=LW) | Lamb Weston Holdings, Inc. | LW |
+| 17 | 89 | $12.41 | [Chart](https://www.tradingview.com/chart/?symbol=DBO) | Invesco DB Oil Fund | DBO |
+| 17 | 89 | $10.38 | [Chart](https://www.tradingview.com/chart/?symbol=AVO) | Mission Produce, Inc. Common Stock | AVO |
+| 12 | 88 | $14.81 | [Chart](https://www.tradingview.com/chart/?symbol=INMD) | InMode Ltd. Ordinary Shares | INMD |
+| 30 | 88 | $149.11 | [Chart](https://www.tradingview.com/chart/?symbol=MTN) | Vail Resorts, Inc. | MTN |
+| 19 | 87 | $19.25 | [Chart](https://www.tradingview.com/chart/?symbol=AAT) | AMERICAN ASSETS TRUST, INC. | AAT |
+| 19 | 87 | $21.90 | [Chart](https://www.tradingview.com/chart/?symbol=SIRI) | Sirius XM Holdings,  Inc | SIRI |
 | 20 | 87 | $10.15 | [Chart](https://www.tradingview.com/chart/?symbol=CELC) | Celcuity Inc. Common Stock | CELC |
-| 20 | 86 | $19.25 | [Chart](https://www.tradingview.com/chart/?symbol=AAT) | AMERICAN ASSETS TRUST, INC. | AAT |
-| 22 | 86 | $19.45 | [Chart](https://www.tradingview.com/chart/?symbol=PLAB) | Photronics Inc | PLAB |
-| 23 | 86 | $13.45 | [Chart](https://www.tradingview.com/chart/?symbol=WDS) | Woodside Energy Group Limited American Depositary Shares, each representing one Ordinary Share | WDS |
-| 20 | 85 | $37.00 | [Chart](https://www.tradingview.com/chart/?symbol=NBHC) | NATIONAL BANK HOLDINGS CORP. | NBHC |
+| 22 | 87 | $13.41 | [Chart](https://www.tradingview.com/chart/?symbol=WDS) | Woodside Energy Group Limited American Depositary Shares, each representing one Ordinary Share | WDS |
+| 19 | 86 | $37.00 | [Chart](https://www.tradingview.com/chart/?symbol=NBHC) | NATIONAL BANK HOLDINGS CORP. | NBHC |
+| 20 | 85 | $38.08 | [Chart](https://www.tradingview.com/chart/?symbol=TECS) | Direxion Daily Technology Bear 3x Shares | TECS |
 | 18 | 83 | $34.99 | [Chart](https://www.tradingview.com/chart/?symbol=BHE) | Benchmark Electronics | BHE |
-| 19 | 83 | $97.11 | [Chart](https://www.tradingview.com/chart/?symbol=RVTY) | Revvity, Inc. | RVTY |
-| 22 | 83 | $38.34 | [Chart](https://www.tradingview.com/chart/?symbol=TECS) | Direxion Daily Technology Bear 3x Shares | TECS |
-| 23 | 82 | $55.36 | [Chart](https://www.tradingview.com/chart/?symbol=KBH) | KB Home | KBH |
-| 24 | 82 | $14.14 | [Chart](https://www.tradingview.com/chart/?symbol=BMEZ) | BlackRock Health Sciences Term Trust | BMEZ |
-| 31 | 80 | $20.61 | [Chart](https://www.tradingview.com/chart/?symbol=BITI) | ProShares Short Bitcoin ETF | BITI |
-| 29 | 79 | $19.18 | [Chart](https://www.tradingview.com/chart/?symbol=HVT) | Haverty Furniture Companies, Inc. | HVT |
-| 33 | 78 | $20.95 | [Chart](https://www.tradingview.com/chart/?symbol=CSWC) | Capital Southwest Corp | CSWC |
-| 39 | 78 | $65.60 | [Chart](https://www.tradingview.com/chart/?symbol=ZROZ) | PIMCO 25+ Year Zero Coupon U.S. Treasury Index Exchange-Traded Fund | ZROZ |
+| 19 | 83 | $97.64 | [Chart](https://www.tradingview.com/chart/?symbol=RVTY) | Revvity, Inc. | RVTY |
+| 22 | 83 | $10.37 | [Chart](https://www.tradingview.com/chart/?symbol=SD) | SandRidge Energy, Inc. | SD |
+| 23 | 82 | $55.59 | [Chart](https://www.tradingview.com/chart/?symbol=KBH) | KB Home | KBH |
+| 38 | 82 | $21.50 | [Chart](https://www.tradingview.com/chart/?symbol=NVDS) | Investment Managers Series Trust II Tradr 1.5X Short NVDA Daily ETF | NVDS |
+| 30 | 81 | $20.60 | [Chart](https://www.tradingview.com/chart/?symbol=BITI) | ProShares Short Bitcoin ETF | BITI |
+| 28 | 80 | $19.18 | [Chart](https://www.tradingview.com/chart/?symbol=HVT) | Haverty Furniture Companies, Inc. | HVT |
+| 29 | 78 | $14.45 | [Chart](https://www.tradingview.com/chart/?symbol=BMEZ) | BlackRock Health Sciences Term Trust | BMEZ |
+| 31 | 78 | $27.61 | [Chart](https://www.tradingview.com/chart/?symbol=BNO) | United States Brent Oil Fund, LP | BNO |
+| 39 | 78 | $65.52 | [Chart](https://www.tradingview.com/chart/?symbol=ZROZ) | PIMCO 25+ Year Zero Coupon U.S. Treasury Index Exchange-Traded Fund | ZROZ |
 | 23 | 77 | $74.54 | [Chart](https://www.tradingview.com/chart/?symbol=WFG) | West Fraser Timber Co. Ltd | WFG |
-| 25 | 77 | $14.63 | [Chart](https://www.tradingview.com/chart/?symbol=RYLD) | Global X Russell 2000 Covered Call ETF | RYLD |
-| 26 | 77 | $16.41 | [Chart](https://www.tradingview.com/chart/?symbol=QYLD) | Global X Funds Global X NASDAQ-100 Covered Call ETF | QYLD |
-| 32 | 77 | $27.69 | [Chart](https://www.tradingview.com/chart/?symbol=BNO) | United States Brent Oil Fund, LP | BNO |
-| 31 | 76 | $110.77 | [Chart](https://www.tradingview.com/chart/?symbol=LEN) | Lennar Corporation Class A | LEN |
-| 25 | 75 | $114.14 | [Chart](https://www.tradingview.com/chart/?symbol=EOG) | EOG Resources, Inc. | EOG |
-| 32 | 75 | $131.02 | [Chart](https://www.tradingview.com/chart/?symbol=PEP) | PepsiCo, Inc. | PEP |
-| 37 | 75 | $134.85 | [Chart](https://www.tradingview.com/chart/?symbol=HES) | Hess Corporation | HES |
-| 30 | 74 | $14.28 | [Chart](https://www.tradingview.com/chart/?symbol=EIC) | Eagle Point Income Company Inc. | EIC |
-| 30 | 74 | $94.92 | [Chart](https://www.tradingview.com/chart/?symbol=PCAR) | Paccar Inc | PCAR |
-| 33 | 74 | $57.05 | [Chart](https://www.tradingview.com/chart/?symbol=UHAL.B) | U-Haul Holding Company | UHAL.B |
-| 36 | 74 | $32.90 | [Chart](https://www.tradingview.com/chart/?symbol=LEGN) | Legend Biotech Corporation American Depositary Shares | LEGN |
-| 31 | 72 | $10.58 | [Chart](https://www.tradingview.com/chart/?symbol=LADR) | LADDER CAPITAL CORP | LADR |
-| 36 | 72 | $12.09 | [Chart](https://www.tradingview.com/chart/?symbol=KELYA) | Kelly Services Inc | KELYA |
-| 36 | 72 | $13.95 | [Chart](https://www.tradingview.com/chart/?symbol=BSM) | Black Stone Minerals, L.P. | BSM |
-| 33 | 71 | $17.41 | [Chart](https://www.tradingview.com/chart/?symbol=MLNK) | MeridianLink, Inc. | MLNK |
-| 35 | 71 | $56.71 | [Chart](https://www.tradingview.com/chart/?symbol=IYH) | iShares U.S. Healthcare ETF | IYH |
-| 35 | 70 | $14.94 | [Chart](https://www.tradingview.com/chart/?symbol=HR) | Healthcare Realty Trust Incorporated | HR |
-| 38 | 68 | $118.22 | [Chart](https://www.tradingview.com/chart/?symbol=VDE) | Vanguard Energy ETF | VDE |
-| 38 | 64 | $274.01 | [Chart](https://www.tradingview.com/chart/?symbol=AMGN) | Amgen Inc | AMGN |
+| 25 | 77 | $14.65 | [Chart](https://www.tradingview.com/chart/?symbol=RYLD) | Global X Russell 2000 Covered Call ETF | RYLD |
+| 25 | 77 | $16.41 | [Chart](https://www.tradingview.com/chart/?symbol=QYLD) | Global X Funds Global X NASDAQ-100 Covered Call ETF | QYLD |
+| 24 | 76 | $114.12 | [Chart](https://www.tradingview.com/chart/?symbol=EOG) | EOG Resources, Inc. | EOG |
+| 31 | 76 | $111.03 | [Chart](https://www.tradingview.com/chart/?symbol=LEN) | Lennar Corporation Class A | LEN |
+| 35 | 76 | $134.18 | [Chart](https://www.tradingview.com/chart/?symbol=HES) | Hess Corporation | HES |
+| 32 | 75 | $57.05 | [Chart](https://www.tradingview.com/chart/?symbol=UHAL.B) | U-Haul Holding Company | UHAL.B |
+| 29 | 74 | $14.25 | [Chart](https://www.tradingview.com/chart/?symbol=EIC) | Eagle Point Income Company Inc. | EIC |
+| 35 | 74 | $32.87 | [Chart](https://www.tradingview.com/chart/?symbol=LEGN) | Legend Biotech Corporation American Depositary Shares | LEGN |
+| 35 | 73 | $12.09 | [Chart](https://www.tradingview.com/chart/?symbol=KELYA) | Kelly Services Inc | KELYA |
+| 35 | 73 | $13.91 | [Chart](https://www.tradingview.com/chart/?symbol=BSM) | Black Stone Minerals, L.P. | BSM |
+| 31 | 72 | $10.60 | [Chart](https://www.tradingview.com/chart/?symbol=LADR) | LADDER CAPITAL CORP | LADR |
+| 32 | 72 | $17.41 | [Chart](https://www.tradingview.com/chart/?symbol=MLNK) | MeridianLink, Inc. | MLNK |
+| 34 | 70 | $56.57 | [Chart](https://www.tradingview.com/chart/?symbol=IYH) | iShares U.S. Healthcare ETF | IYH |
+| 35 | 70 | $14.99 | [Chart](https://www.tradingview.com/chart/?symbol=HR) | Healthcare Realty Trust Incorporated | HR |
+| 36 | 69 | $117.51 | [Chart](https://www.tradingview.com/chart/?symbol=VDE) | Vanguard Energy ETF | VDE |
+| 38 | 66 | $84.06 | [Chart](https://www.tradingview.com/chart/?symbol=XLE) | Energy Select Sector SPDR Fund | XLE |
 
 ## **Methodology**
 
